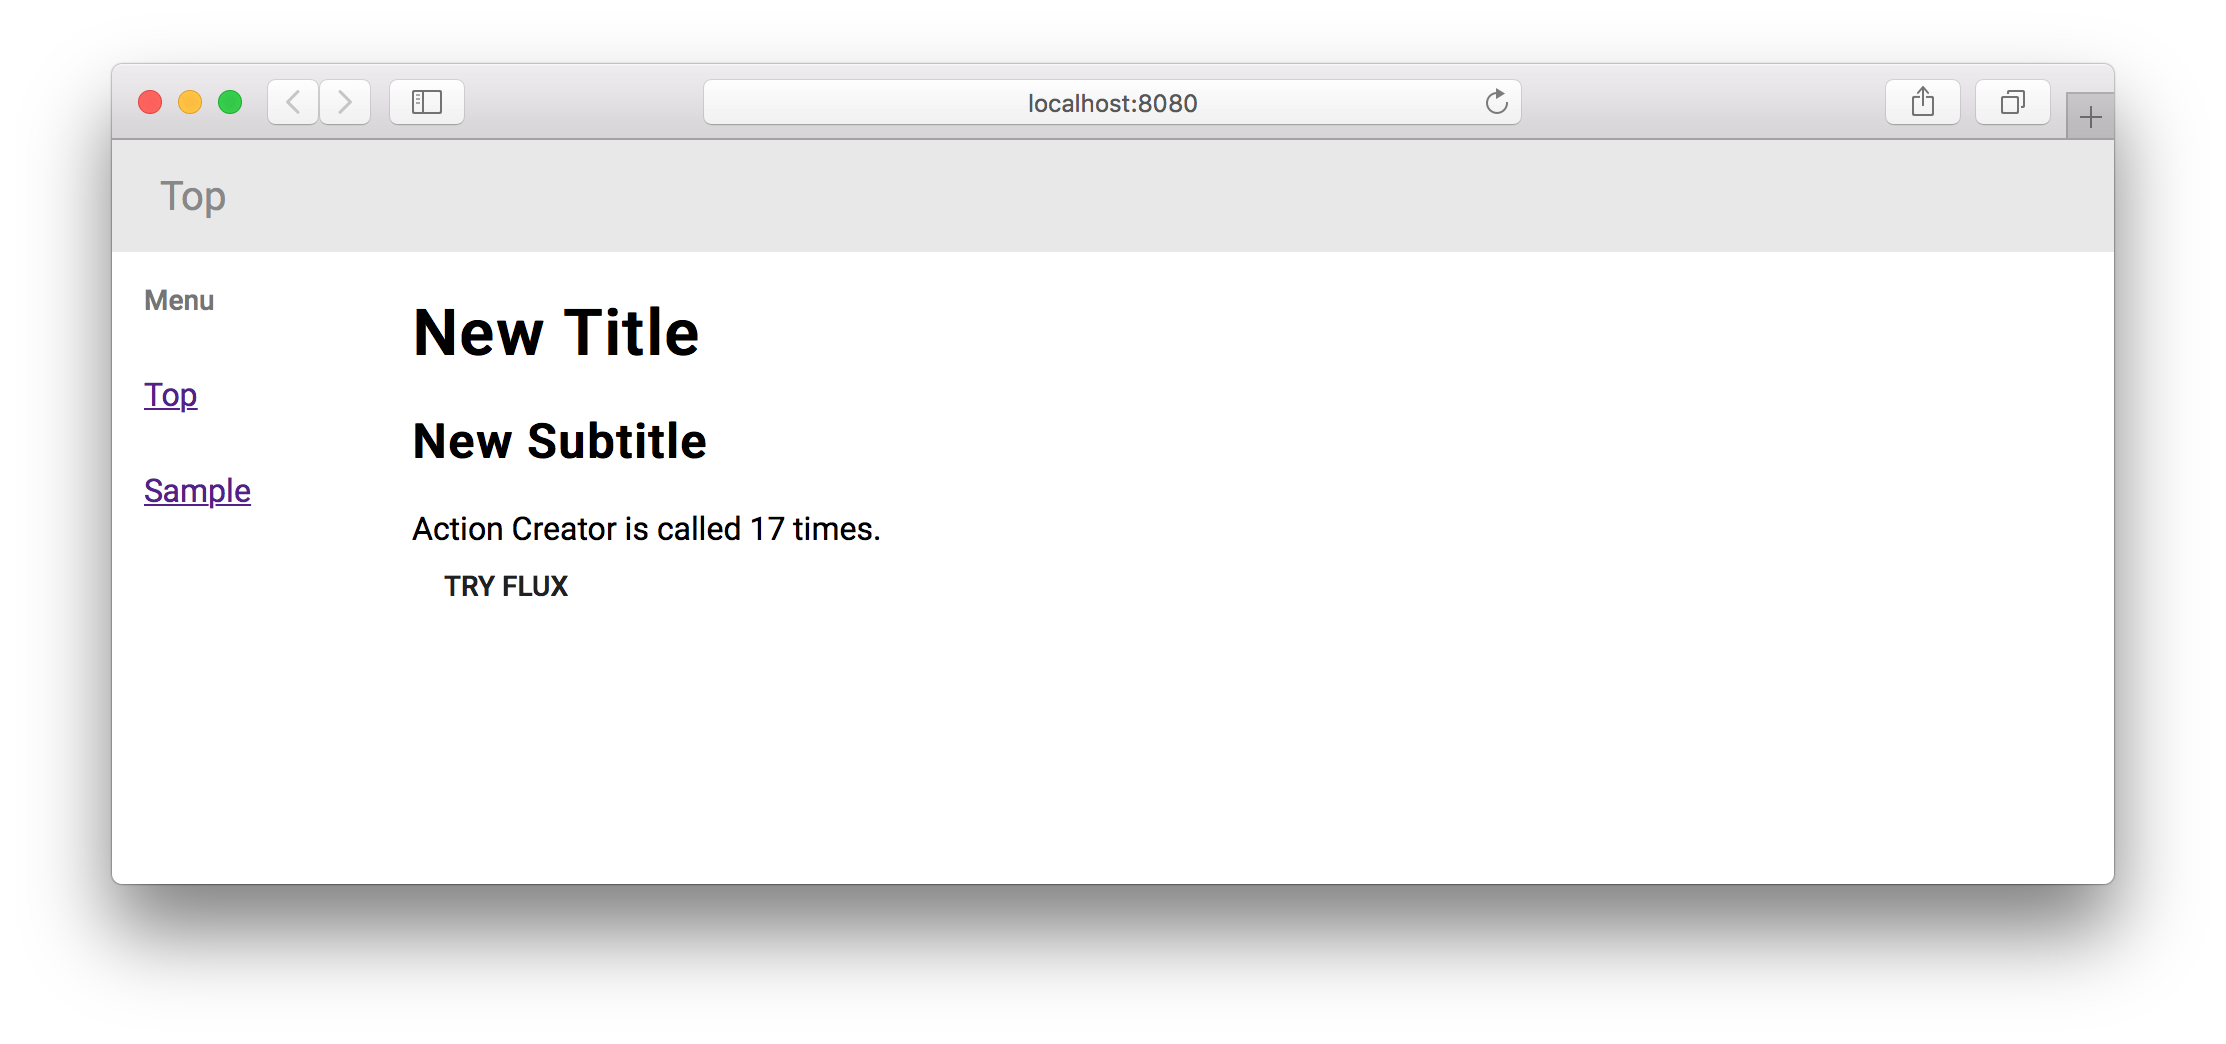
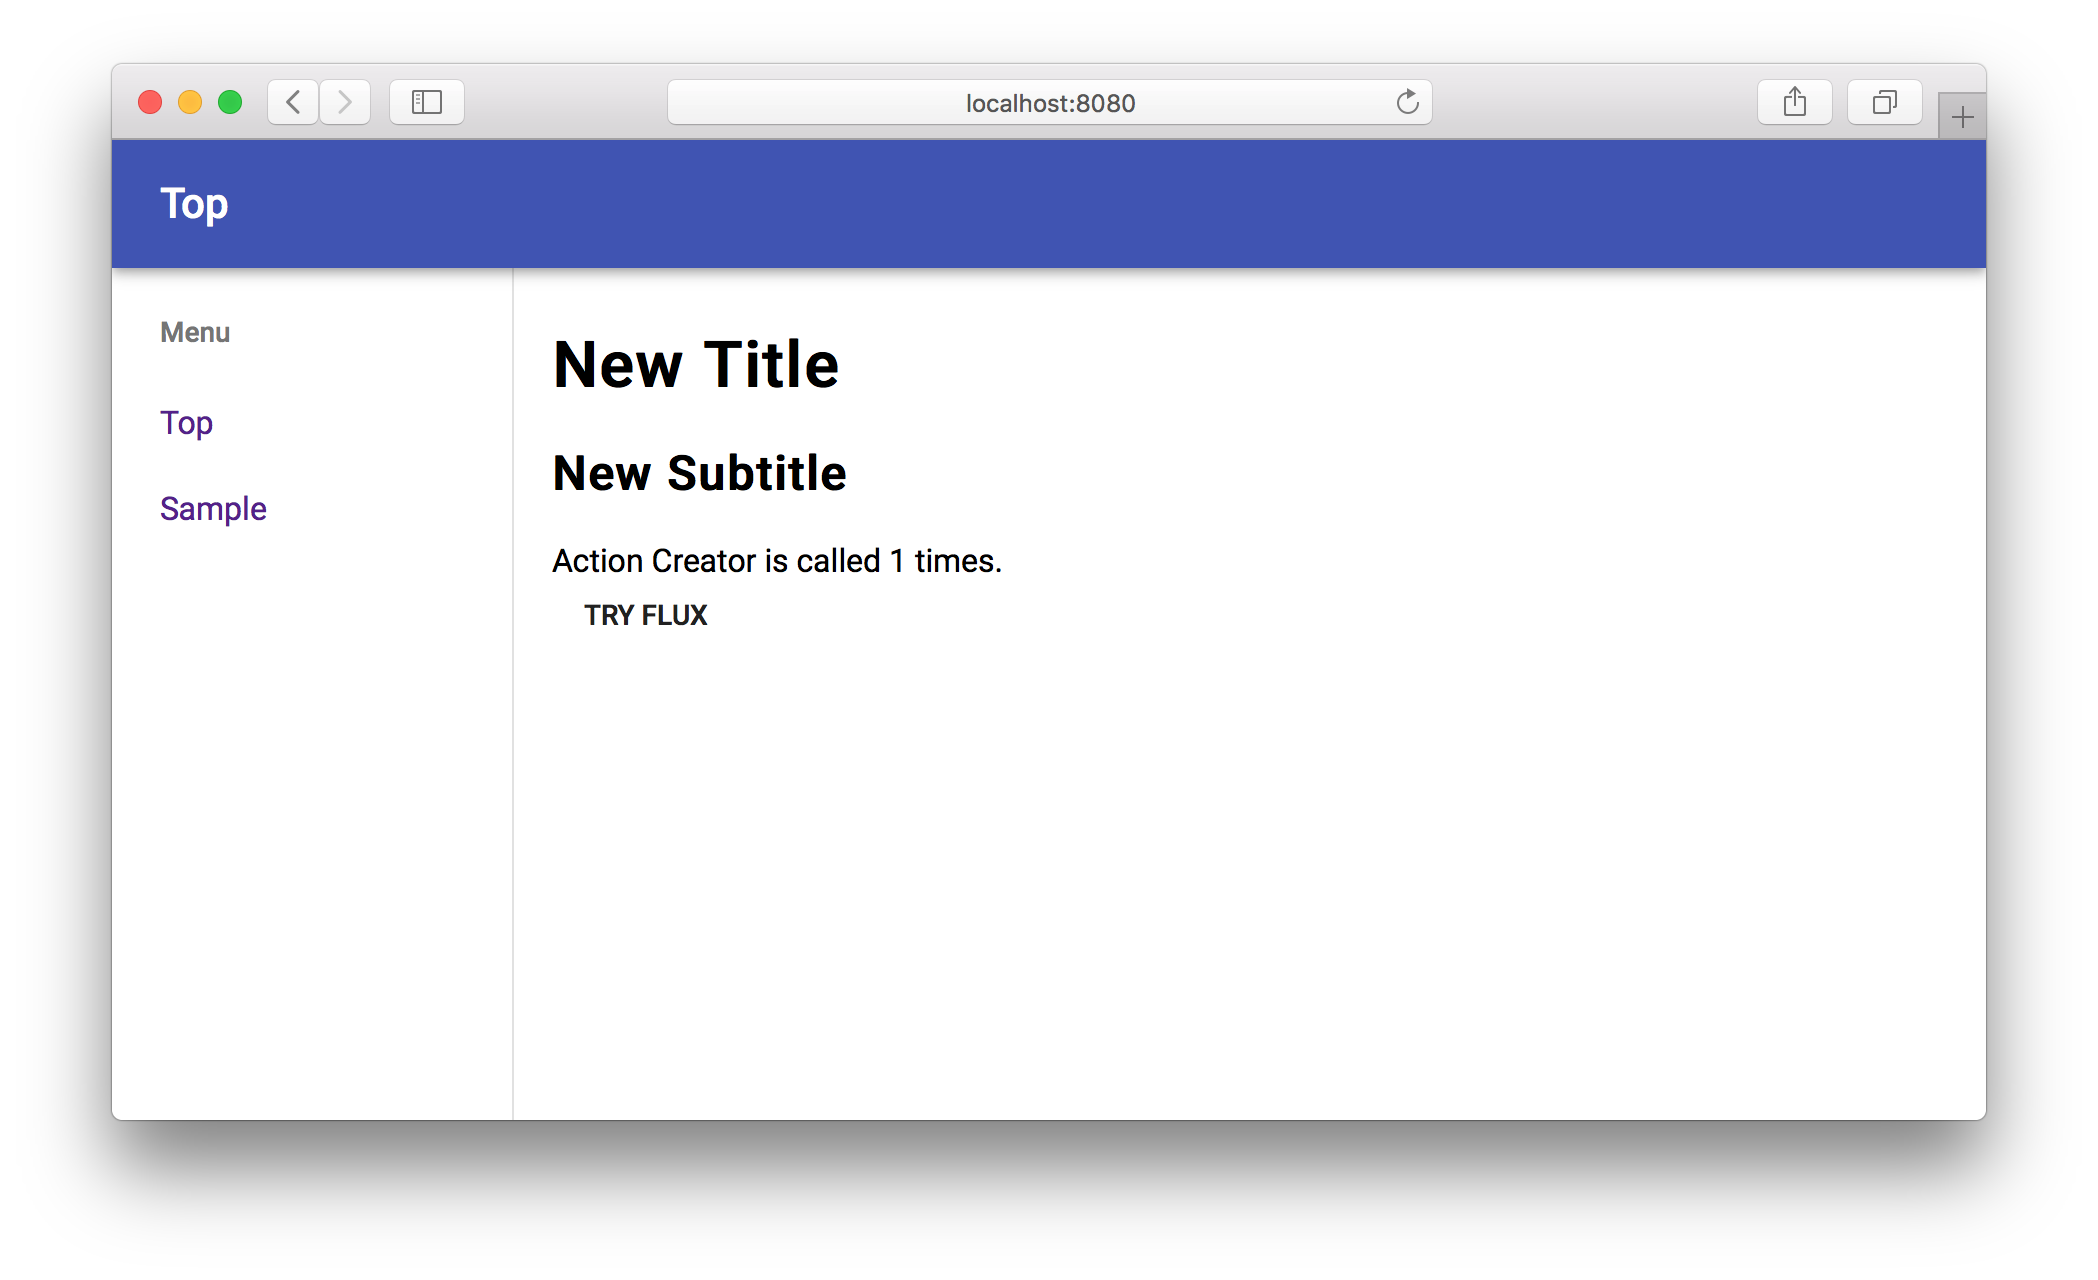
update example

Changed region(s): [[0.031, 0.0613, 0.9604, 0.9195], [0.1859, 0.2452, 0.4647, 0.5211], [0.1859, 0.5517, 0.2788, 0.5824]]

diff --git a/bin/generator.js b/bin/generator.js
@@ -42,7 +42,7 @@ import Navi from './Navi';
 import Menu from './Menu';
 import Content from './Content';
 
-class _${name}Container extends Component {
+class ${name}Container extends Component {
   static getStores() {
     return [SampleStore];
   }
@@ -59,14 +59,14 @@ class _${name}Container extends Component {
   render() {
     return (
       <div>
-        <Navi title="${name}"/>
-        <div style={{display:"flex"}}>
-          <Menu/>
+        <Navi title="${name}" style={{zIndex:1201, position: 'fixed', top: 0}} />
+        <div style={{display: 'flex'}}>
+          <Menu style={{width:200, paddingTop:72}} />
           <Content 
             title={this.state.sample.title} 
             subtitle={this.state.sample.subtitle}
             text={this.state.sample.text}
-            style={{margin:'10px'}}
+            style={{padding: 20, paddingTop: 72}}
           />
         </div>
       </div>
@@ -74,8 +74,7 @@ class _${name}Container extends Component {
   }
 }
 
-const ${name}Container = Container.create(_${name}Container);
-export default ${name}Container;
+export default Container.create(${name}Container);
 `;
 
   fu.createFile(`./app/components/${name}Container.js`, code);

diff --git a/bin/app/components/Menu.js b/bin/app/components/Menu.js
@@ -3,17 +3,24 @@ import PropTypes from 'prop-types';
 import { Link } from 'react-router-dom';
 import ListSubheader from 'material-ui/List/ListSubheader';
 import List, { ListItem } from 'material-ui/List';
+import Drawer from 'material-ui/Drawer';
 
 class Menu extends Component {
   render() {
     return (
-      <List style={{width: '15%'}}>
-        <ListSubheader>Menu</ListSubheader>
-        <ListItem component={Link} to="/">Top</ListItem>
-        <ListItem component={Link} to="/sample">Sample</ListItem>
-      </List>
+      <Drawer variant="permanent" style={this.props.style}>
+        <List style={this.props.style}>
+          <ListSubheader>Menu</ListSubheader>
+          <ListItem component={Link} to="/">Top</ListItem>
+          <ListItem component={Link} to="/sample">Sample</ListItem>
+        </List>
+      </Drawer>
     );
   }
+}
+
+Menu.propTypes = {
+  width: PropTypes.number
 }
 
 export default Menu;

diff --git a/bin/app/components/Navi.js b/bin/app/components/Navi.js
@@ -7,7 +7,7 @@ import Typography from 'material-ui/Typography';
 class Navi extends Component {
   render() {
     return (
-      <AppBar position="static" color="default">
+      <AppBar position="absolute" style={this.props.style}>
         <Toolbar>
           <Typography variant="title" color="inherit">
             {this.props.title}

diff --git a/bin/app/components/Content.js b/bin/app/components/Content.js
@@ -10,7 +10,7 @@ class Content extends Component {
 
   render() {
     return (
-      <div>
+      <div style={this.props.style}>
         <h1>{this.props.title}</h1>
         <h2>{this.props.subtitle}</h2>
         <div>{this.props.text}</div>        

diff --git a/README.md b/README.md
@@ -9,7 +9,9 @@
 [![npm](https://img.shields.io/npm/v/starter-react-flux.svg)](https://www.npmjs.com/package/starter-react-flux) 
 [![PRs Welcome](https://img.shields.io/badge/PRs-welcome-brightgreen.svg)](https://github.com/SokichiFujita/starter-react-flux/blob/master/README.md) 
 
-A starter kit for a React and Flux projext. You can easily start a standard React and Flux project using awesome libraries.
+A starter kit for a React and Flux. You can easily create a standard React and Flux project using awesome libraries.
+
+Look ahead to the future! starter-react-flux will always install all the latest version of following libraries.
 
 - [React](http://facebook.github.io/react/), [Flux](https://facebook.github.io/flux/)
 - [Jest](https://facebook.github.io/jest/)
@@ -21,15 +23,13 @@ A starter kit for a React and Flux projext. You can easily start a standard Reac
 - [Material-UI](http://www.material-ui.com)
 - [Axios](https://github.com/mzabriskie/axios)
 
-## Pre-requirement
-
-Node.js >= v8.x
-
 ## Installation
 
 ```
 npm install -g starter-react-flux
 ```
+
+- Please use Node.js v8.x or above.
 
 ## Usage
 
